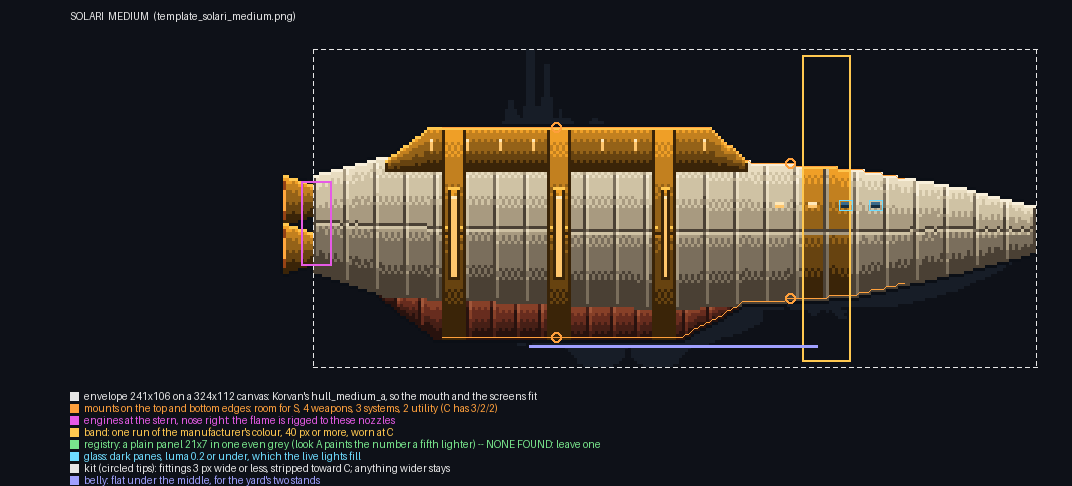
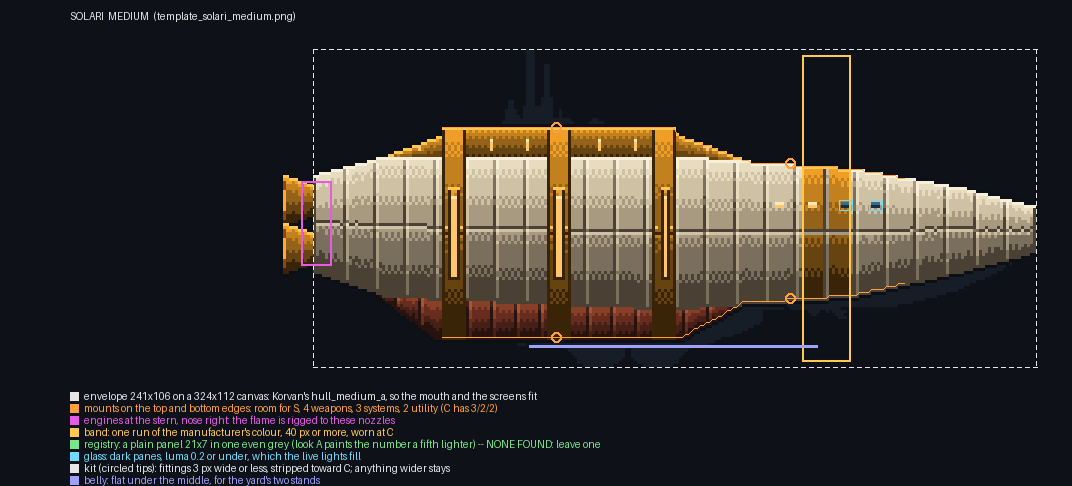
Hull templates: Solari's crest sits on the spine, the keel's mirror, instead of over the hull (Jon)
Claude-Session: https://claude.ai/code/session_01FQemMvme1wfvjCSMpMkDgS

Changed region(s): [[0.3386, 0.2469, 0.708, 0.3704]]

diff --git a/tkg/art/tools/hull_template.py b/tkg/art/tools/hull_template.py
@@ -131,6 +131,29 @@ def P(shape, mat='steel', **kw):
     return d
 
 
+def crest_on(hull, x0, x1, high, n):
+    """Solari's radiator crest sitting ON the spine: its bottom follows the
+    hull's top edge (a pixel inside, so they join) and its top is flat at
+    `high`, the ends swept down into the hull. The keel's mirror. List it
+    BEFORE the hull so the hull's edge is drawn over the seam (Jon, Oct 15:
+    "the top keel and the bottom keel can be more aligned along the top of
+    the hull, not sitting within it")."""
+    def spine(x):
+        for (a, ta, _), (b, tb, _) in zip(hull, hull[1:]):
+            if a <= x <= b:
+                return ta + (tb - ta) * (x - a) / max(1e-6, b - a)
+        return hull[-1][1] if x > hull[-1][0] else hull[0][1]
+    k = 12
+    pts = []
+    for i in range(k + 1):
+        x = x0 + (x1 - x0) * i / k
+        bot = spine(x) + .01
+        end = min(i, k - i) / 3.0          # the last three steps sweep down
+        top = high if end >= 1 else bot - (bot - high) * end
+        pts.append((x, min(top, bot - .005), bot))
+    return [P(('prof', pts), 'acc', rivets=True, ports=[(.25, .08, .92, n, 1, 4, n)])]
+
+
 def keel(hull, x0, x1, low, **kw):
     """A keel that hangs from the belly itself: its top follows the hull's
     bottom edge (a pixel inside it, so the two join) and its bottom is flat at
@@ -179,24 +202,24 @@ def crest(x0, x1, top, n):
 
 SPECS = {
  'solari': {
-  'light': {'parts': [
+  'light': {'parts': crest_on([(.04, .40, .72), (.18, .34, .82), (.38, .35, .82), (.50, .40, .74), (.60, .45, .68)], 0.08, 0.49, 0.25, 6) + [
      keel([(.04, .40, .72), (.18, .34, .82), (.38, .35, .82), (.50, .40, .74), (.60, .45, .68)], .08, .48, .91, seams=6),
      P(('prof', [(.44, .47, .65), (.8, .51, .61), (1, .55, .57)]), 'tile', seams=12, rivets=False, band=(.62, .70)),
      P(('prof', [(.04, .40, .72), (.18, .34, .82), (.38, .35, .82), (.50, .40, .74), (.60, .45, .68)]), 'tile', seams=8, rivets=False, belt=.55,
-       ports=[(.32, .45, .9, 3, 3, 2, 1)], hatch=[(.6, .6, .85, .85)])] + crest(.12, .44, .34, 6) + rings(.12, .44, .34, .84, 3, low=.91),
+       ports=[(.32, .45, .9, 3, 3, 2, 1)], hatch=[(.6, .6, .85, .85)])] + rings(.12, .44, .34, .84, 3, low=.91),
    'kit': [],
    'noz': [(.48, .11), (.64, .11)], 'noz_mat': 'acc', 'noz_out': True, 'noz_x': .04},
-  'medium': {'parts': [
+  'medium': {'parts': crest_on([(0, .40, .70), (.1, .34, .78), (.5, .34, .82), (.75, .38, .78), (.9, .44, .70), (1, .50, .64)], 0.08, 0.61, 0.25, 9) + [
      keel([(0, .40, .70), (.1, .34, .78), (.5, .34, .82), (.75, .38, .78), (.9, .44, .70), (1, .50, .64)], .08, .60, .91, seams=8),
      P(('prof', [(0, .40, .70), (.1, .34, .78), (.5, .34, .82), (.75, .38, .78), (.9, .44, .70), (1, .50, .64)]), 'tile', seams=10,
-       rivets=False, belt=.48, ports=[(.3, .62, .8, 4, 3, 2, 2)], band=(.68, .74))] + crest(.12, .56, .34, 9) + rings(.12, .56, .34, .82, 3, low=.91),
+       rivets=False, belt=.48, ports=[(.3, .62, .8, 4, 3, 2, 2)], band=(.68, .74))] + rings(.12, .56, .34, .82, 3, low=.91),
    'kit': [],
    'noz': [(.475, .10), (.625, .10)], 'noz_mat': 'acc', 'noz_out': True},
-  'heavy': {'parts': [
+  'heavy': {'parts': crest_on([(0, .40, .74), (.08, .34, .84), (.5, .34, .92), (.78, .38, .86), (.9, .44, .76), (1, .56, .66)], 0.22, 0.67, 0.25, 9) + [
      keel([(0, .40, .74), (.08, .34, .84), (.5, .34, .92), (.78, .38, .86), (.9, .44, .76), (1, .56, .66)], .22, .66, 1.0, seams=8),
      P(('prof', [(0, .40, .74), (.08, .34, .84), (.5, .34, .92), (.78, .38, .86), (.9, .44, .76), (1, .56, .66)]), 'tile', seams=12, rivets=False,
        belt=.5, ports=[(.28, .66, .84, 4, 3, 2, 2)], band=(.76, .82), hatch=[(.06, .6, .14, .8)]),
-     P(('poly', [(.92, .44), (1, .56), (1, .66), (.92, .70)]), 'acc')] + crest(.26, .62, .34, 9) + rings(.26, .62, .34, .92, 4, low=1.0),
+     P(('poly', [(.92, .44), (1, .56), (1, .66), (.92, .70)]), 'acc')] + rings(.26, .62, .34, .92, 4, low=1.0),
    'kit': [],
    'noz': [(.485, .12), (.655, .12)], 'noz_mat': 'acc', 'noz_out': True},
  },
